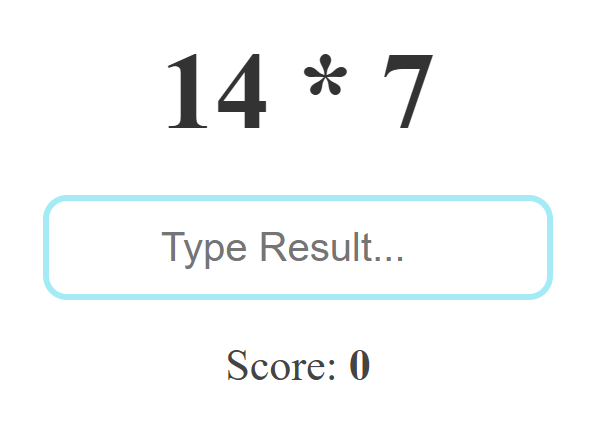
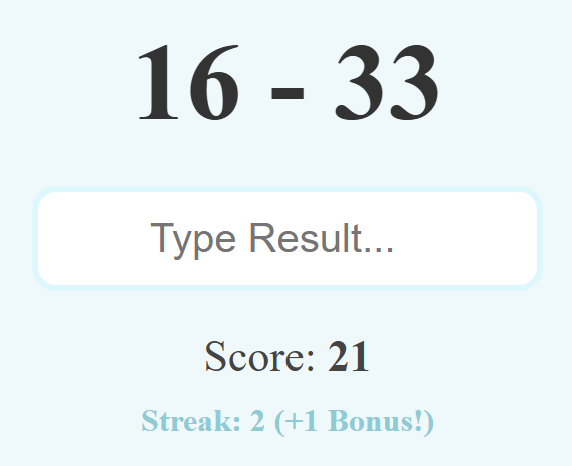
mathequiz und tictactoe fixes

diff --git a/assets/js/tictactoe.js b/assets/js/tictactoe.js
@@ -14,6 +14,7 @@ const resetOverlay = document.getElementById("resetOverlay");
 const championOverlay = document.getElementById("championOverlay");
 const championText = document.getElementById("championText");
 const playAgainBtn = document.getElementById("playAgainBtn");
+const playAgainBtnChampion = document.getElementById("playAgainBtnChampion");
 const playAgainSymbol = document.getElementById("playAgainSymbol")
 const confettiCanvas = document.getElementById("confettiCanvas");
 
@@ -58,8 +59,9 @@ closeOverlay.addEventListener("click", () => {
 });
 
 resetBtn.addEventListener("click", resetGame);
+playAgainBtn.addEventListener("click", resetGame);
 resetOverlay.addEventListener("click", resetGame);
-playAgainBtn.addEventListener("click", resetEverything);
+playAgainBtnChampion.addEventListener("click", resetEverything);
 playAgainSymbol.addEventListener("click", resetEverything);
 
 function handleClick(field) {
@@ -117,36 +119,37 @@ function checkWin() {
 }
 
 function handleWin(winFields) {
-	gameOver = true;
-	resetOverlay.classList.add("armed");
-	
-	// Gewinnerfelder animieren
-	winFields.forEach(i => {
-		fields[i].classList.add("win");
-	});
+    gameOver = true;
+    resetOverlay.classList.add("armed");
+    
+    // Gewinnerfelder markieren
+    winFields.forEach(i => {
+        fields[i].classList.add("win");
+    });
 
-	startingPlayer = currentPlayer === "X" ? "O" : "X";
-
-	setTimeout(() => {
-		winnerText.textContent =
-		currentPlayer === "X" ? "Player 1 wins!" : "Player 2 wins!";
-		overlay.classList.remove("hidden");
-	}, 800);
-
+    // Score sofort erhöhen (nicht im Timeout!)
     if (currentPlayer === "X") {
         scoreP1.textContent = Number(scoreP1.textContent) + 1;
     } else {
         scoreP2.textContent = Number(scoreP2.textContent) + 1;
     }
 
-    setTimeout(() => {
-        const p1Score = Number(scoreP1.textContent);
-        const p2Score = Number(scoreP2.textContent);
+    const p1Score = Number(scoreP1.textContent);
+    const p2Score = Number(scoreP2.textContent);
 
+    // Entscheidung: Champion oder normaler Rundensieg?
+    setTimeout(() => {
         if (p1Score === 3 || p2Score === 3) {
-            championPending = true;
+            // Wenn jemand 3 Punkte hat, zeige SOFORT den Champion
+            showChampion();
+        } else {
+            // Sonst zeige das normale Runden-Overlay
+            winnerText.textContent = currentPlayer === "X" ? "Player 1 wins!" : "Player 2 wins!";
+            overlay.classList.remove("hidden");
         }
-    }, 900);
+    }, 800);
+
+    startingPlayer = currentPlayer === "X" ? "O" : "X";
 }
 
 function resetGame() {

diff --git a/assets/css/mathquiz.css b/assets/css/mathquiz.css
@@ -1,7 +1,7 @@
 
 
 .quiz-container {
-    background: white;
+    background: rgba(230, 252, 255, 0.5);
     padding: 30px 30px 5px 30px;
     border-radius: 20px;
     box-shadow: 0 10px 30px rgba(0,0,0,0.1);
@@ -77,7 +77,7 @@
 }
 
 .quiz-dropdown p:hover {
-    background-color: #a0ecf6;
+    background-color: #dbf5f8;
 }
 
 .quiz-dropdown p.active-mode {
@@ -101,7 +101,7 @@
     width: 50%;
     padding: 12px;
     font-size: 20px;
-    border: 3px solid #a0ecf6;
+    border: 3px solid #dcf9fc;
     border-radius: 12px;
     text-align: center;
     outline: none;
@@ -109,7 +109,7 @@
 }
 
 #answerInput:focus {
-    border-color: #78dbe8;
+    border-color: #b6e4ea;
 }
 
 #score-display {
@@ -120,7 +120,7 @@
 
 #streak-info {
     height: 25px;
-    color: #26c6da;
+    color: #8bccd4;
     font-weight: bold;
     margin-top: 10px;
 }

diff --git a/pages/tictactoe.html b/pages/tictactoe.html
@@ -124,14 +124,14 @@
 				<div class="winnerBox">
 					<span id="closeOverlay" class="closeBtn">✖</span>
 					<h1 id="winnerText"></h1>
-					<button id="resetBtn">Reset Game</button>
+					<button id="resetBtn">Next Round</button>
 				</div>
 			</div>
 
 			<div id="championOverlay" class="overlay hidden">
 				<div class="winnerBox">
 					<h1 id="championText"></h1>
-					<button id="playAgainBtn" class="playAgainBtn">Play again</button>
+					<button id="playAgainBtnChampion" class="playAgainBtn">Play again</button>
 					<canvas id="confettiCanvas"></canvas>
 				</div>
 			</div>

diff --git a/assets/css/tictactoe.css b/assets/css/tictactoe.css
@@ -135,8 +135,8 @@
     position: absolute;
     top: 0px;
     left: 0px;
-    right: 5px;
-    bottom: 5px;
+    right: 0px;
+    bottom: 0px;
 
     background: rgba(117, 115, 115, 0.35);
     color: white;

diff --git a/index.html b/index.html
@@ -154,7 +154,7 @@
 
     </div>
 
-    <div id="noGamesMessage"">
+    <div id="noGamesMessage">
         <h2>Coming Soon...</h2>
         <p>We are working on exciting games for you!</p>
     </div>

diff --git a/assets/css/style.css b/assets/css/style.css
@@ -158,7 +158,7 @@
 }
 
 .mathimg{
-    margin-top: 22px;
+    margin-top: 12px;
     border: 1px #333 solid;
     border-radius: 10px;
 }
